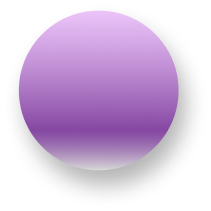
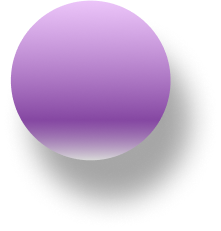
some style changes

diff --git a/src/style/Namecomp-style.module.css b/src/style/Namecomp-style.module.css
@@ -17,13 +17,13 @@
 }
 .circleBig1{
     position: absolute;
-    top: 7%;
-    left: 28%;
+    top: 6%;
+    left: 27%;
 }
 .circleBig2{
     position: absolute;
-    top: 55%;
-    left: 24%;
+    top: 58%;
+    left: 22%;
 }
 
 .circleMs1,
@@ -34,18 +34,18 @@
 }
 .circleMs1{
     position: absolute;
-    top: 22%;
-    left: 40.3%;
+    top: 21%;
+    left: 41%;
 }
 .circleMs2{
     position: absolute;
-    top: 46%;
-    left: 46.4%;
+    top: 51%;
+    left: 47%;
 }
 .circleMs3{
     position: absolute;
-    top: 62%;
-    left: 62%;
+    top: 63%;
+    left: 63%;
 }
 
 .circleMedium1,
@@ -56,17 +56,17 @@
 }
 .circleMedium1{
     position: absolute;
-    top: 38.8%;
+    top: 40%;
     left: 34.3%;
 }
 .circleMedium2{
     position: absolute;
-    top: 26%;
-    left: 53.3%;
+    top: 23%;
+    left: 54%;
 }
 .circleMedium3{
     position: absolute;
-    top: 67%;
+    top: 72%;
     left: 50%;
 }
 
@@ -79,23 +79,23 @@
 }
 .circleSmall1{
     position: absolute;
-    top: 33%;
+    top: 32%;
     left: 29%;
 }
 .circleSmall2{
     position: absolute;
-    top: 62%;
-    left: 42%;
+    top: 66%;
+    left: 39%;
 }
 .circleSmall3{
     position: absolute;
-    top: 37%;
-    left: 67%;
+    top: 39%;
+    left: 66%;
 }
 .circleSmall4{
     position: absolute;
-    top: 50%;
-    left: 57.8%;
+    top: 52%;
+    left: 58%;
 }
 
 
@@ -115,14 +115,14 @@
     width: 721px;
     height: 153px;
   
-    text-shadow: 4px 7px 7px rgba(0, 0, 0, 0.40);
+    text-shadow: 20px 40px 30px rgba(0, 0, 0, 0.35);
     -webkit-text-stroke-width: 1px;
     -webkit-text-stroke-color: rgba(0, 0, 0, 0.15);
-    font-size: 70px;
+    font-size: 4.375rem;
     font-style: normal;
     font-weight: 600;
     line-height: normal;
-    letter-spacing: 25px;
+    letter-spacing: 1.563rem;
     gap: 3vh;
     margin-bottom: 8%;
 }
@@ -131,12 +131,12 @@
     align-self: stretch;
     color: #000;
     text-align: right;
-    text-shadow: 4px 7px 7px rgba(0, 0, 0, 0.40);
-    font-size: 37px;
+    text-shadow: 20px 40px 30px rgba(0, 0, 0, 0.35);
+    font-size: 2.313rem;
     font-style: normal;
     font-weight: 400;
     line-height: normal;
-    letter-spacing: 9px;
+    letter-spacing: 0.563rem;
 }
 
 /* .circleBig1{

diff --git a/src/components/Aboutcomp.jsx b/src/components/Aboutcomp.jsx
@@ -1,7 +1,11 @@
 import React, { useEffect, useRef } from 'react';
 import cat from '../img/cat.jpg'
-import circle2 from '../img/circle2.jpg'
 import styles from "../style/Aboutcomp-style.module.css";
+import useScrollPosition from './useScrollPosition';
+import circlebig from '../img/circlebig.png'
+import circlems from '../img/circlems.png'
+import circlesmall from '../img/circlesmall.png'
+import circlemedium from '../img/circlemedium.png'
 
 const Aboutcomp = () => {
   const textRef = useRef(null);
@@ -32,12 +36,20 @@ const Aboutcomp = () => {
 
   }, []);
 
+  useScrollPosition();
+
   return (
     <div className="aboutComp">
         <h2 className={styles.aboutMe}>About me</h2>
 
         <div className={styles.groupSection}>
-            <img className={styles.img} src={circle2} alt="" /> 
+            <div>
+              <img className={`${styles.circle2} ${styles.aCircleBig1}`} src={circlebig} alt="" />
+              <img className={`${styles.circle2} ${styles.aCirclMs1}`} src={circlems} alt="" />
+              <img className={`${styles.circle2} ${styles.aCircleSmall1}`} src={circlesmall} alt="" />
+              <img className={`${styles.circle2} ${styles.aCircleMedium1}`} src={circlemedium} alt="" />
+              <img className={`${styles.circle2} ${styles.aCircleBig2}`} src={circlebig} alt="" />
+            </div>
             <div className={styles.aboutSection}>
                 <img className={styles.me} src={cat} alt="" />
                 <p className={styles.text} ref={textRef}>Hello, I am an Frontend Developer student seeking new and developmental challenges. I am often described as cheerful, positive, and proactive. I embrace new challenges and  I enjoy being creative. I always approach tasks with a positive mindset, aiming to become the best Frontend Developer I can be.</p>

diff --git a/src/style/App.css b/src/style/App.css
@@ -27,7 +27,6 @@ footer{
 .nameComp{
   position: relative;
   overflow: hidden;
-  overflow-y: auto;
   width: 100vw;
   height: 120vh;
   clip-path: ellipse(75% 80% at 50% 20%);
@@ -38,10 +37,6 @@ footer{
   align-items: center;
 }
 
-/* #name{
-  z-index: 100;
-  position: absolute;
-} */
 
 .aboutComp{
   position: relative;
@@ -58,40 +53,3 @@ footer{
 .projectComp{
   background: linear-gradient(180deg, rgba(220, 150, 244, 0.56) 0%, rgba(86, 0, 126, 0.72) 74.79%, #D9D9D9 100%), linear-gradient(180deg, rgba(220, 150, 244, 0.71) 14.4%, rgba(86, 0, 126, 0.90) 56.4%, #2E2E2E 100%);
 }
-
-
-/* img{
-  position: absolute;
-  mix-blend-mode: multiply;
-} */
-
-/* h1 {
-  color: #6C1196;
-  text-align: center;
-  font-family: Inter;
-  width: 721px;
-  height: 153px;
-
-  text-shadow: 4px 7px 7px rgba(0, 0, 0, 0.40);
-  font-size: 70px;
-  font-style: normal;
-  font-weight: 600;
-  line-height: normal;
-  letter-spacing: 25.6px;
-  margin-bottom: 20px;
-} */
-
-/* h2 {
-  height: 48px;
-  align-self: stretch;
-
-  color: #000;
-  text-align: right;
-  text-shadow: 4px 7px 7px rgba(0, 0, 0, 0.40);
-  font-family: Inter;
-  font-size: 37px;
-  font-style: normal;
-  font-weight: 400;
-  line-height: normal;
-  letter-spacing: 11.2px;
-} */

diff --git a/src/style/Aboutcomp-style.module.css b/src/style/Aboutcomp-style.module.css
@@ -5,12 +5,42 @@
     text-shadow: 4px 7px 7px rgba(0, 0, 0, 0.40);
     -webkit-text-stroke-width: 1;
     -webkit-text-stroke-color: rgba(0, 0, 0, 0.15);
-    font-size: 48px;
+    font-size: 3.75rem;
     font-style: normal;
     font-weight: 600;
     line-height: normal;
-    letter-spacing: 15px;
+    letter-spacing: 0.938rem;
     margin: 50px 0;
+}
+
+.circle2{
+    position: absolute;
+    opacity: 0.5;
+    transform: translateY(calc(var(--scrollY) * 0.1));
+}
+
+.aCircleBig1{
+    top: 20%;
+    left: 4%;
+}
+.aCircleBig2{
+    top: 87%;
+    left: 1%;
+}
+
+.aCirclMs1{
+    top: 43%;
+    left: 18%;
+}
+
+.aCircleSmall1{
+    top: 54%;
+    left: 6%;
+}
+
+.aCircleMedium1{
+    top: 66%;
+    left: 13%;
 }
 
 .me{
@@ -22,11 +52,12 @@
 }
 
 .groupSection{
-    display: inline-flex;
+    display: flex;
+    flex-direction: row;
     align-items: center;
-    gap: 100px;
+    gap: 30vw;
     margin: 0 20px;
-
+    padding-top: 7vh;
 }
 
 .aboutSection{
@@ -37,7 +68,7 @@
 }
 
 .text{
-    font-size: 20px;
+    font-size: 1.25rem;
 }
 
 @keyframes slideInFromRight {

diff --git a/index.html b/index.html
@@ -2,7 +2,7 @@
 <html lang="en">
   <head>
     <meta charset="UTF-8" />
-    <link rel="icon" type="image/svg+xml" href="/vite.svg" />
+    <link rel="icon" type="image/svg+xml" href="/logo.svg" />
     <meta name="viewport" content="width=device-width, initial-scale=1.0" />
     <title>LouisE</title>
   </head>

diff --git a/src/style/Skillcomp-style.module.css b/src/style/Skillcomp-style.module.css
@@ -18,7 +18,7 @@
     align-items: flex-start;
     justify-content: center;
     background: #E8E6E6;
-    padding-bottom: 20vh;
+    padding: 20vh;
     /* padding: 20vh 0; */
     gap: 15vw;    
 }
